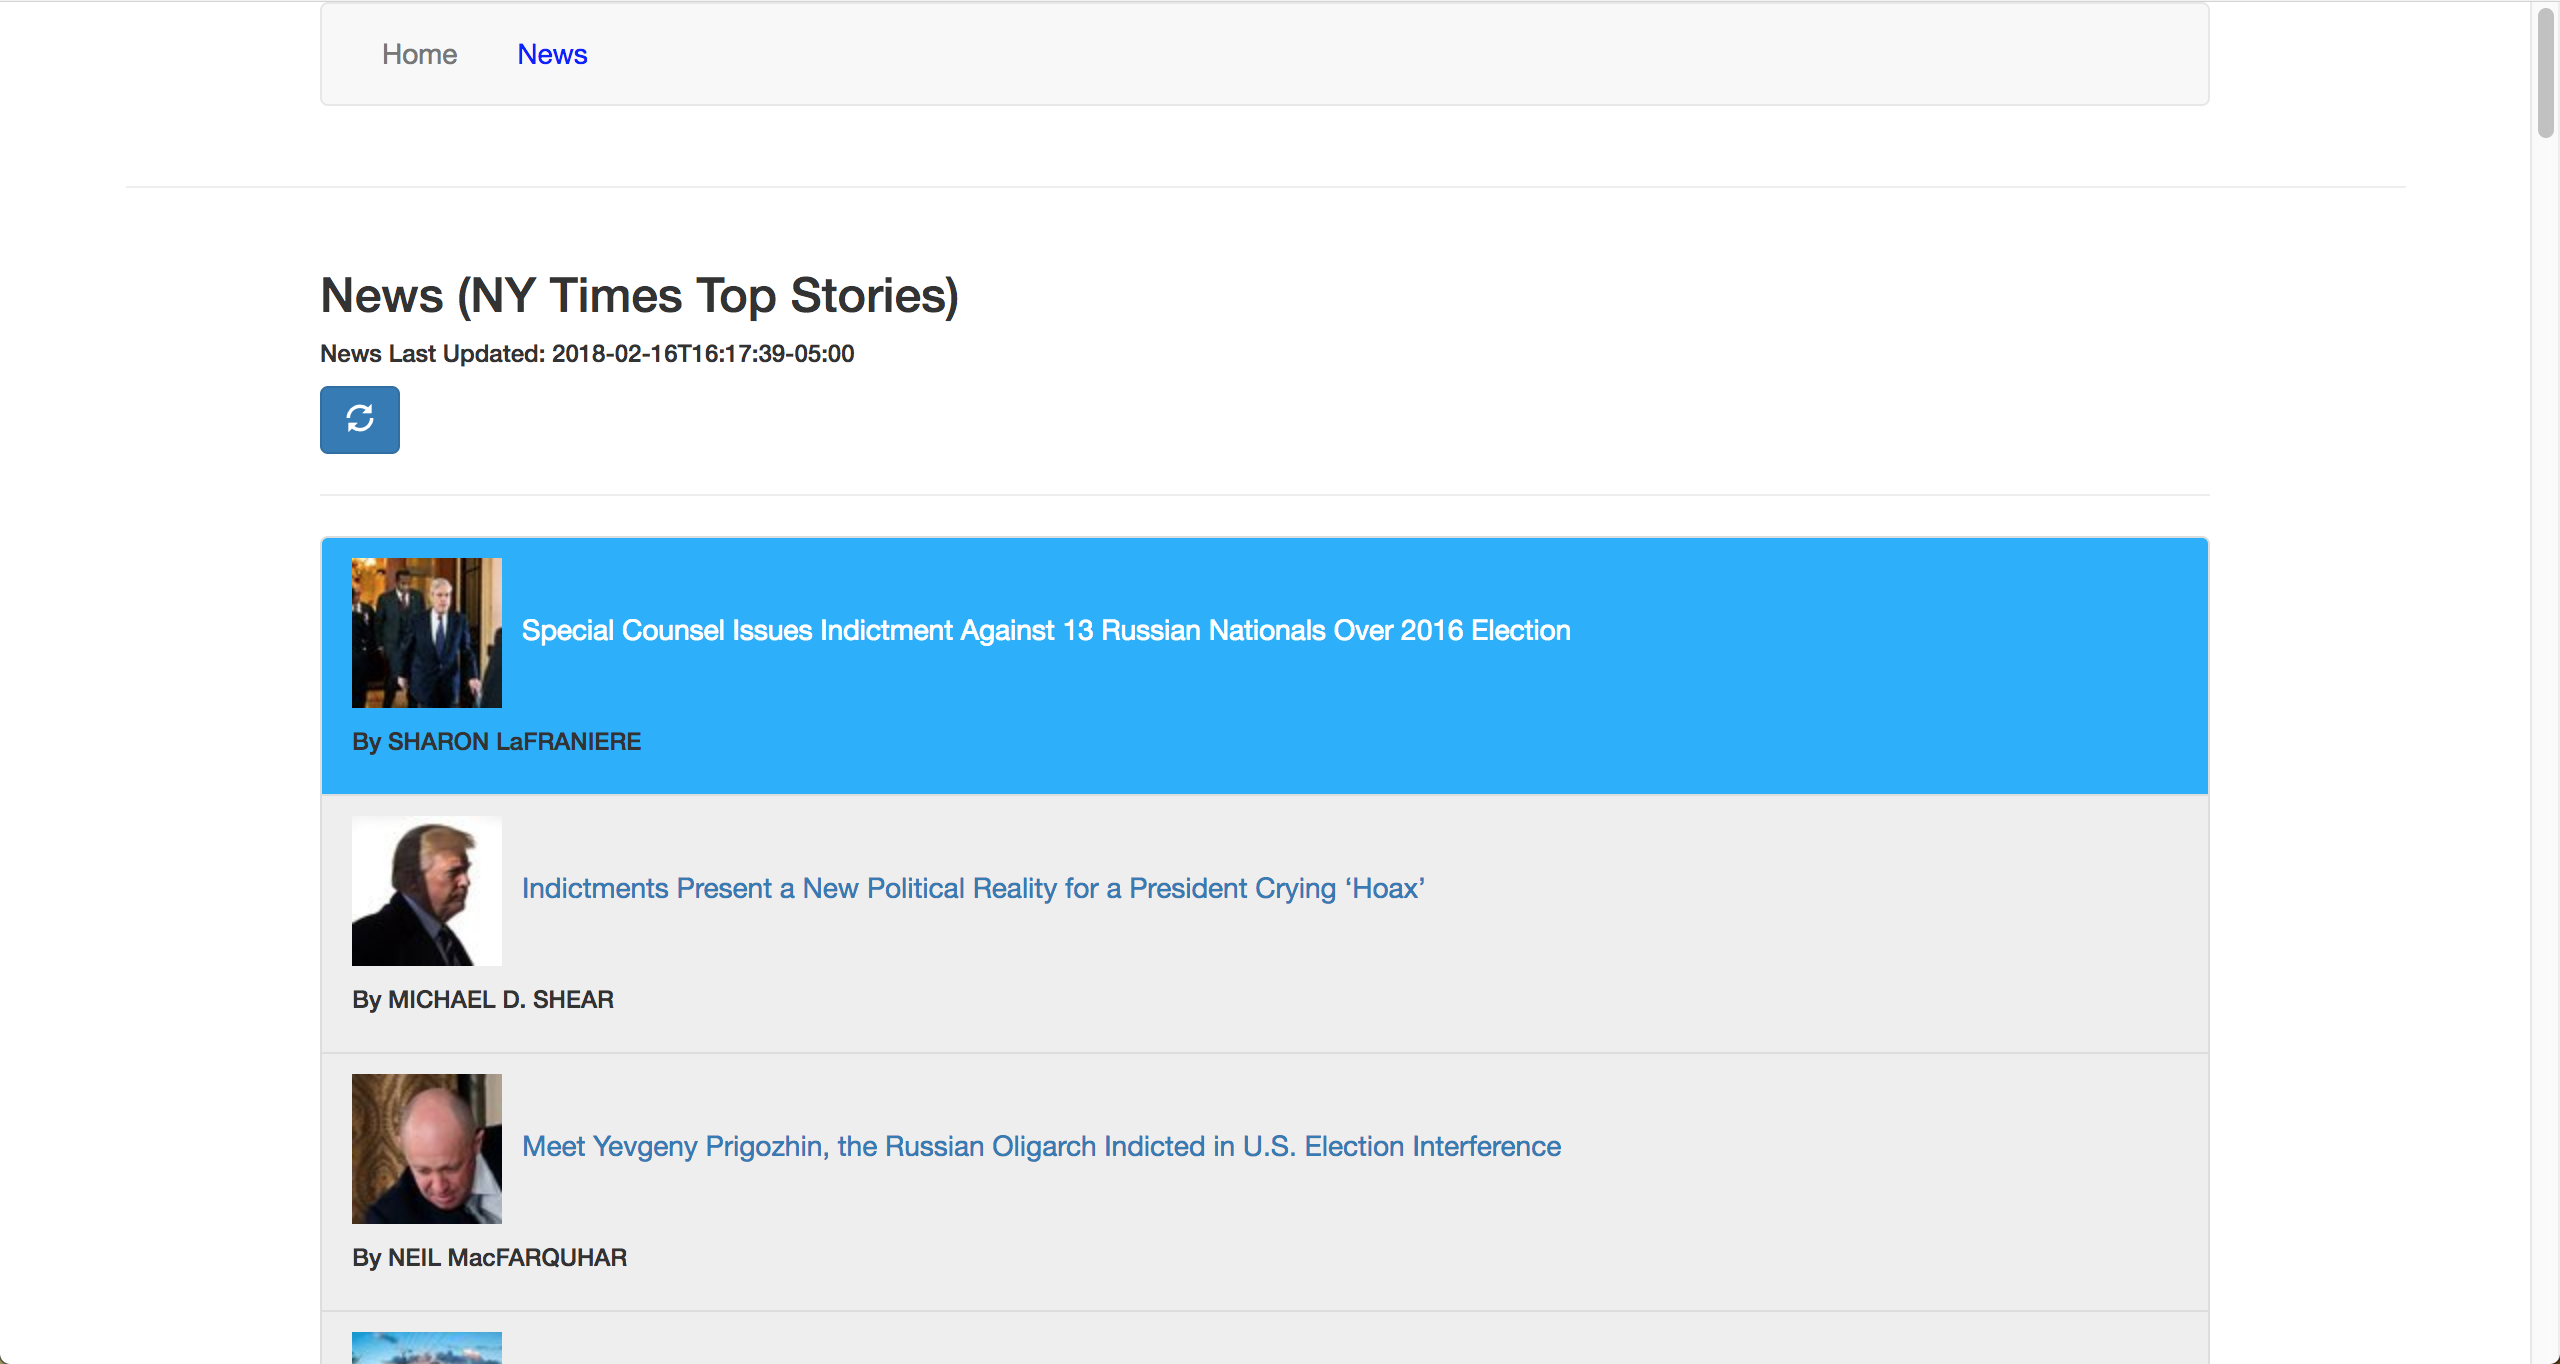
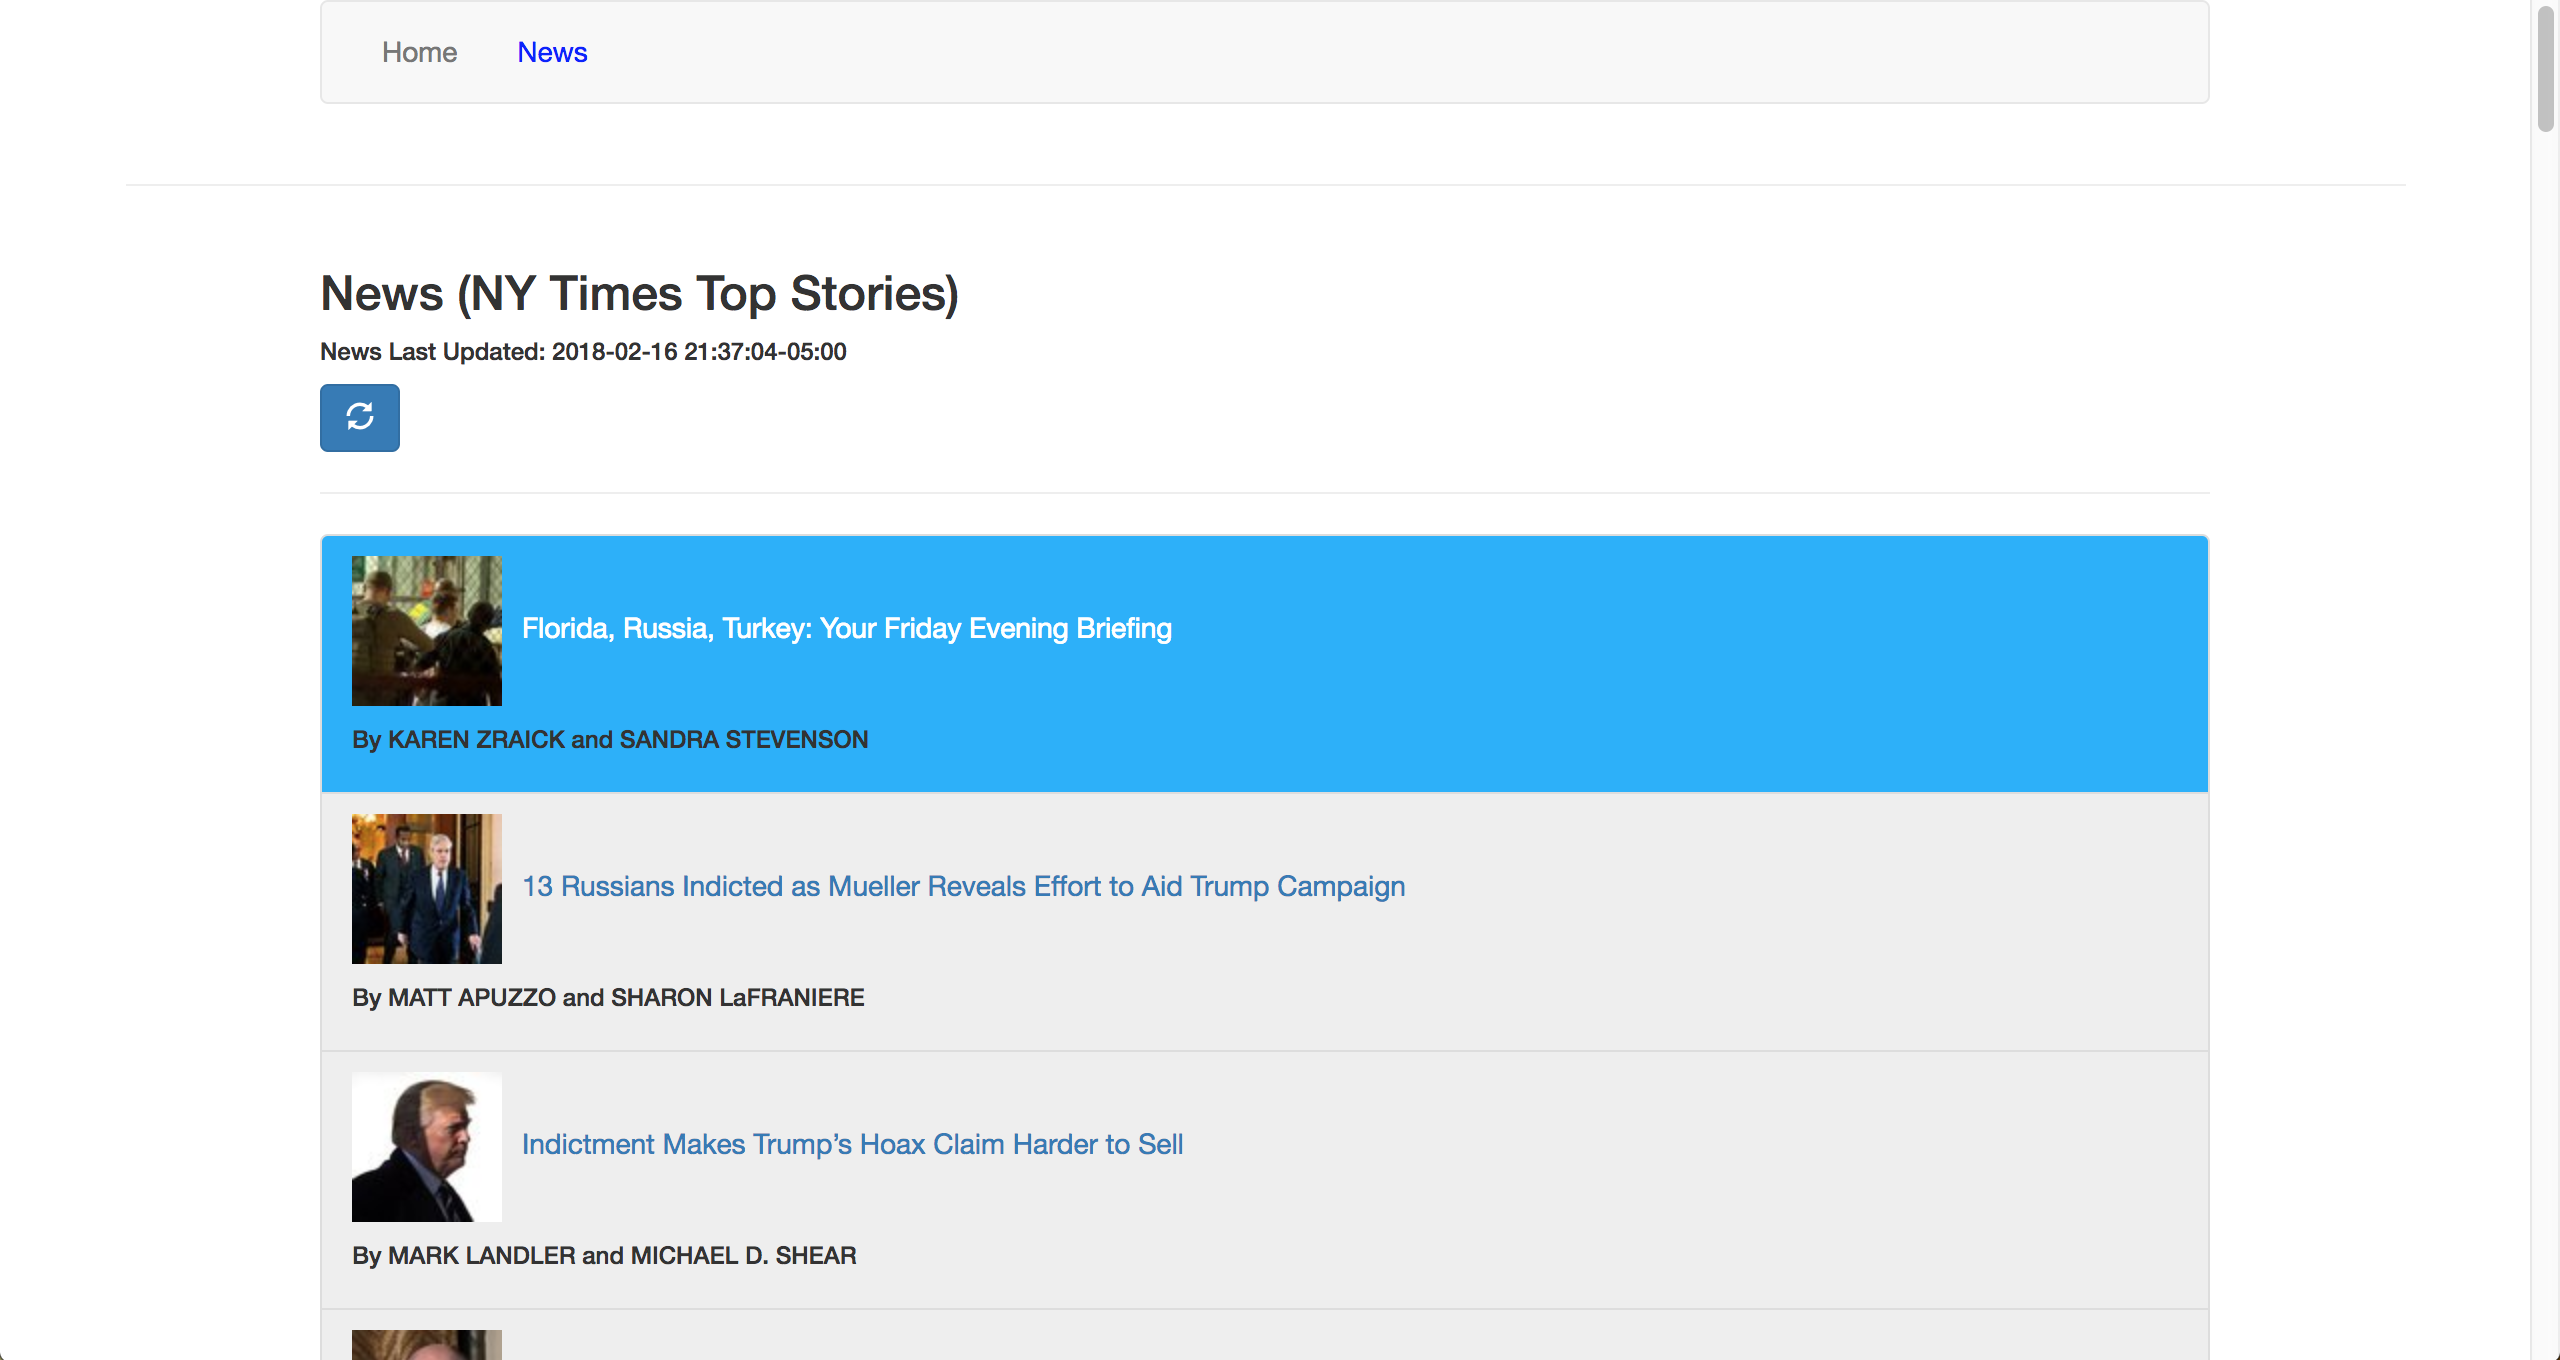
fixed date time label

diff --git a/src/app/components/News.js b/src/app/components/News.js
@@ -33,7 +33,7 @@ export class News extends React.Component {
         (result) => {
           this.setState({
 
-            lastUpdated: "News Last Updated: " + result.last_updated,
+            lastUpdated: "News Last Updated: " + result.last_updated.replace("T", " "),
             newsResults: result.results,
             spinnerIsVisible: "none"
           });
